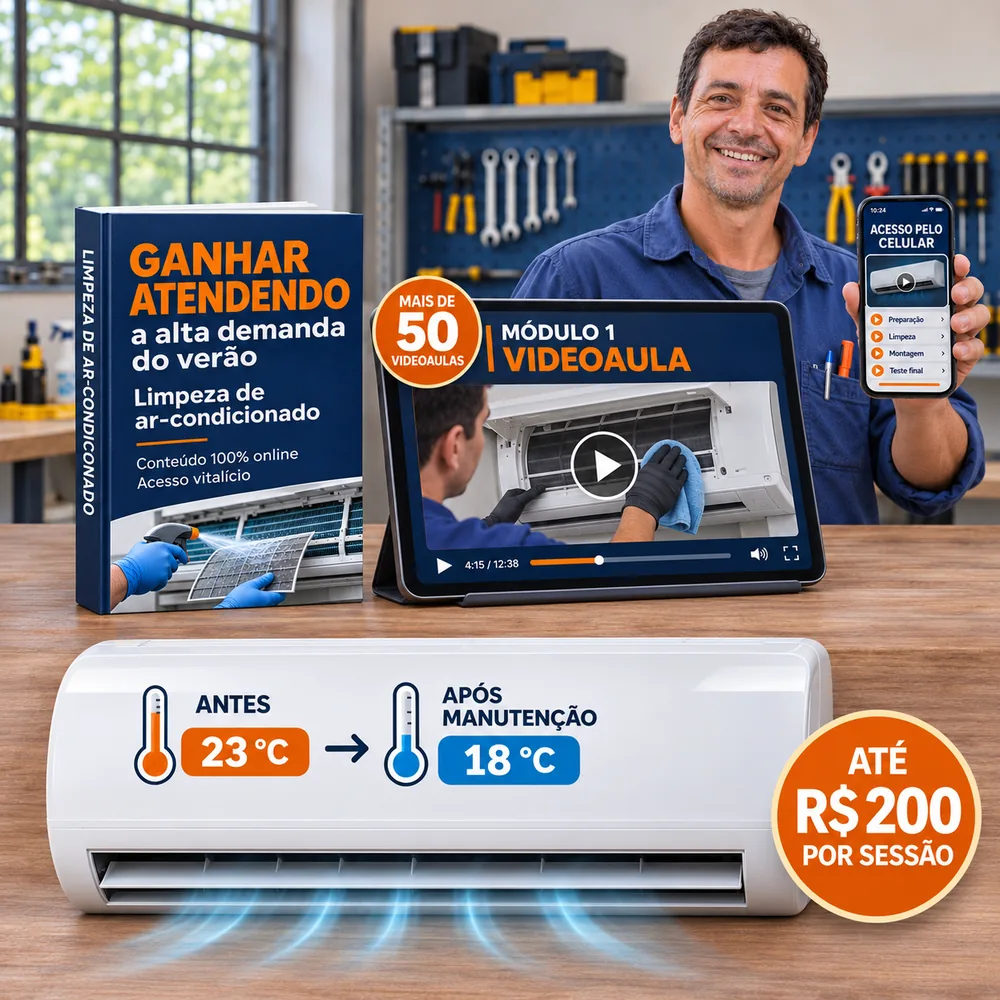
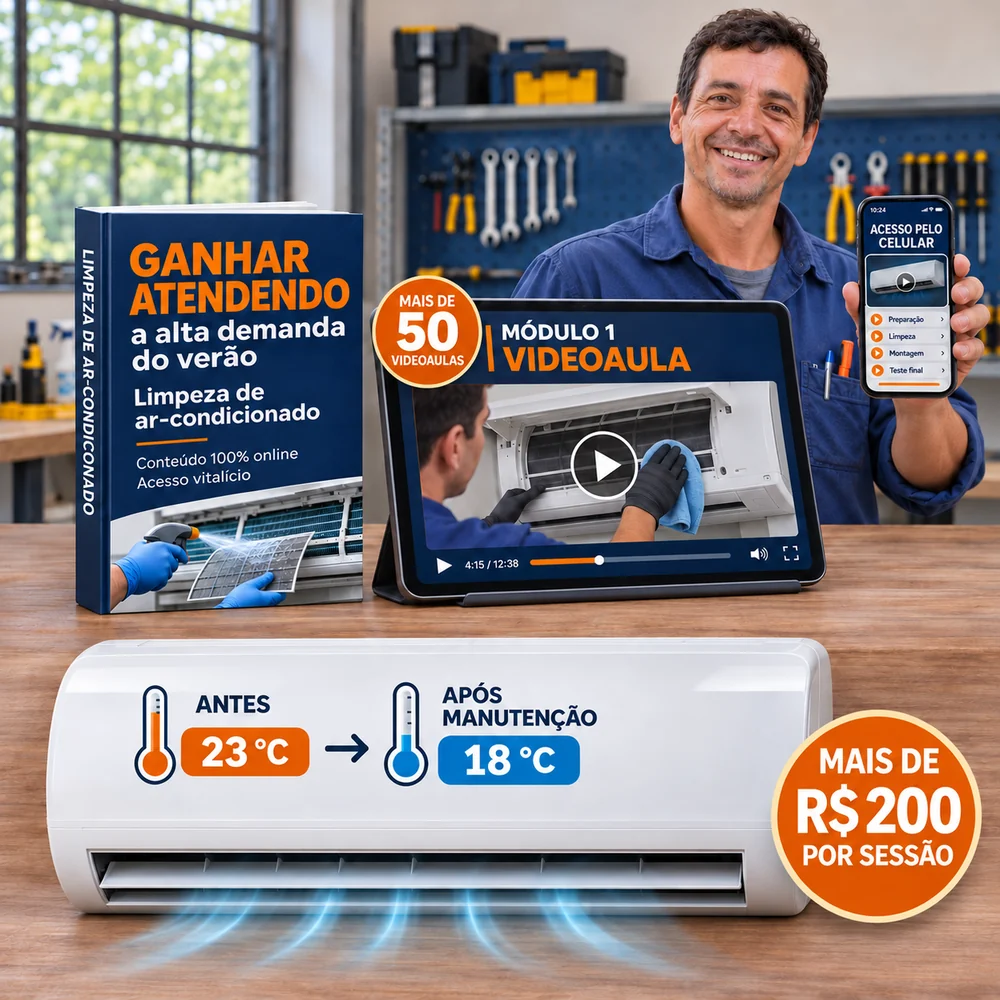
Hero: imagem corrigida (mais de R$200 por sessao), selo para quem faz servicos gerais ou quer faturar com ar-condicionado, alerta do El Nino

diff --git a/index.html b/index.html
@@ -112,6 +112,11 @@ h3{font-size:19px;letter-spacing:-.02em}
 .hero-grid{position:relative;display:grid;gap:18px;text-align:center}
 .eyebrow{display:inline-flex;align-items:center;gap:8px;justify-self:center;font-size:11.5px;font-weight:800;letter-spacing:.1em;text-transform:uppercase;color:var(--ice-l);background:rgba(255,154,46,.14);border:1.5px solid rgba(255,211,107,.35);border-radius:999px;padding:6px 14px}
 .eyebrow .ic{width:16px;height:16px;animation:spin 14s linear infinite}
+.hero .eyebrow{border-radius:16px;line-height:1.35;text-align:left}
+.hero .eyebrow .ic{flex:none}
+.alerta-calor{display:inline-flex;align-items:center;gap:9px;font-size:12.5px;font-weight:600;line-height:1.35;color:#fff;background:rgba(198,40,24,.22);border:1.5px solid rgba(255,120,90,.5);border-left:4px solid #ff5a3c;border-radius:10px;padding:8px 12px;text-align:left;max-width:560px}
+.alerta-calor .ic{width:16px;height:16px;flex:none;color:#ffd36b}
+.alerta-calor b{color:#ffd36b;font-size:10.5px;font-weight:800;letter-spacing:.1em;text-transform:uppercase;margin-right:6px}
 .hero h1{font-size:clamp(23px,6.5vw,38px);color:#fff;letter-spacing:-.035em;line-height:1.04}
 .hero h1 .mut{color:rgba(255,255,255,.72)}
 .hero h1 .hn{white-space:normal}
@@ -534,9 +539,10 @@ footer{text-align:center;font-size:13px;color:var(--ink2);padding:0 20px 110px}
 <header class="hero">
   <div class="wrap hero-grid">
     <div class="hero-tx">
-      <div class="eyebrow"><svg class="ic"><use href="#i-sun"/></svg>Pra quem já trabalha com serviços gerais</div>
+      <div class="eyebrow"><svg class="ic"><use href="#i-sun"/></svg>Para quem já trabalha com serviços gerais ou deseja faturar com ar&#8209;condicionado</div>
       <h1>Já faz serviços gerais? <span class="hl hn">+50 videoaulas</span> pra você ganhar mais com ar-condicionado neste verão, <span class="mut">mesmo sem nunca ter mexido</span></h1>
-      <p class="sub">Você já tem o cliente e a ferramenta. Aprenda <b>passo a passo</b> a instalar, limpar e consertar ar-condicionado e refrigeração, e some esse serviço ao que você já faz, com a previsão de El Niño forte no verão.</p>
+      <p class="sub">Você já tem o cliente e a ferramenta. Aprenda <b>passo a passo</b> a instalar, limpar e consertar ar-condicionado e refrigeração, e some esse serviço ao que você já faz, com a previsão de El Niño forte no verão. <b>Fature mais com a mesma visita que você já faz.</b></p>
+      <div class="alerta-calor" role="note"><svg class="ic"><use href="#i-sun"/></svg><span><b>Alerta</b> Previsão forte de altas temperaturas vinda do El Niño</span></div>
     </div>
 
     <figure class="hero-fig">
@@ -611,7 +617,7 @@ footer{text-align:center;font-size:13px;color:var(--ink2);padding:0 20px 110px}
         <g transform="translate(362 372) rotate(-32)"><rect x="-6" y="0" width="12" height="62" rx="6" fill="#fff"/><rect x="-9" y="-10" width="18" height="14" rx="3" fill="#DDC3AA"/><path d="M-9-10 9-10 12-30-12-30z" fill="#FFC83D"/><path d="M-6-30v14M0-30v14M6-30v14" stroke="#E0A71A" stroke-width="1.500"/></g>
       </svg>
       <!-- SLOT hero.webp 880x806 (opcional): cobre a ilustração -->
-      <img class="ov" src="assets/hero.webp" alt="Técnico limpando um ar-condicionado split" width="880" height="806" fetchpriority="high" onerror="slotErr(this)">
+      <img class="ov" src="assets/hero.webp" alt="Técnico com o curso de ar-condicionado: apostila, videoaulas e acesso pelo celular" width="1000" height="1000" fetchpriority="high" onerror="slotErr(this)">
     <div class="sticker s1" aria-hidden="true" style="right:auto;top:auto;left:-3%;bottom:-4%;width:19cqw;height:19cqw;transform:rotate(-8deg)"><b>Passo</b>a passo</div>
     </figure>
 
